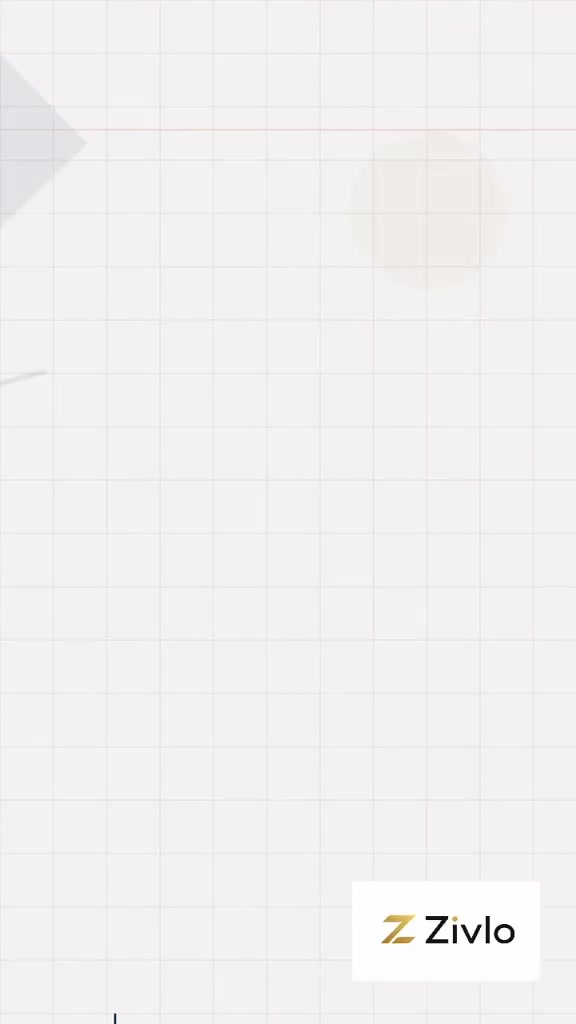
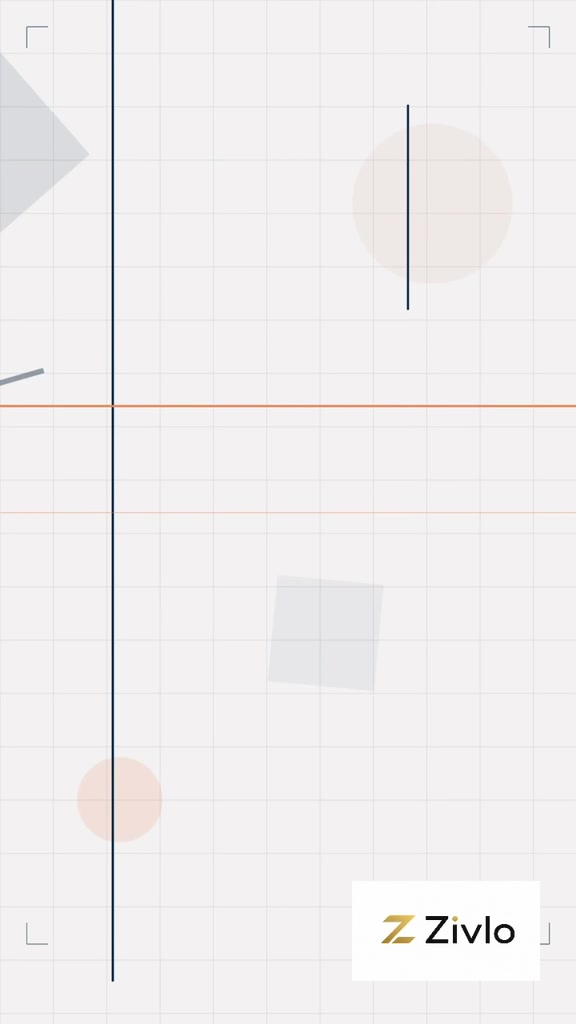
new last fixes

Changed region(s): [[0.0, 0.0, 1.0, 0.9688], [0.6875, 0.0938, 0.7188, 0.3125]]

diff --git a/app/(pages)/results/page.tsx b/app/(pages)/results/page.tsx
@@ -70,6 +70,70 @@ async function copyToClipboard(text: string): Promise<boolean> {
   return ok;
 }
 
+const LOADING_STEPS = [
+  "Searching Companies House…",
+  "Finding matching businesses…",
+  "Writing your personalised pitches…",
+];
+
+function SearchLoadingScreen() {
+  const [step, setStep] = useState(0);
+
+  useEffect(() => {
+    const t1 = setTimeout(() => setStep(1), 3500);
+    const t2 = setTimeout(() => setStep(2), 8000);
+    return () => {
+      clearTimeout(t1);
+      clearTimeout(t2);
+    };
+  }, []);
+
+  return (
+    <div className="mx-auto flex min-h-screen max-w-[430px] flex-col items-center justify-center bg-cream px-6">
+      <div
+        className="h-11 w-11 animate-spin rounded-full border-[3px] border-gold/25 border-t-gold"
+        role="status"
+        aria-label="Loading search results"
+      />
+
+      <p className="mt-6 text-sm font-medium text-navy">Working on your search</p>
+
+      <ul className="mt-5 w-full max-w-[280px] space-y-3">
+        {LOADING_STEPS.map((label, index) => {
+          const isDone = index < step;
+          const isActive = index === step;
+          return (
+            <li
+              key={label}
+              className={`flex items-start gap-2.5 text-sm transition-colors duration-500 ${
+                isDone
+                  ? "font-light text-[#999]"
+                  : isActive
+                    ? "font-medium text-navy"
+                    : "font-light text-[#ccc]"
+              }`}
+            >
+              <span
+                className={`mt-0.5 flex h-4 w-4 shrink-0 items-center justify-center rounded-full text-[10px] ${
+                  isDone
+                    ? "bg-gold/20 text-gold"
+                    : isActive
+                      ? "animate-pulse bg-gold text-navy"
+                      : "bg-gray-100 text-[#ccc]"
+                }`}
+                aria-hidden
+              >
+                {isDone ? "✓" : index + 1}
+              </span>
+              <span className={isActive ? "animate-pulse" : undefined}>{label}</span>
+            </li>
+          );
+        })}
+      </ul>
+    </div>
+  );
+}
+
 function ResultsContent() {
   const router = useRouter();
   const searchParams = useSearchParams();
@@ -214,12 +278,11 @@ function ResultsContent() {
       }
     }
 
-    const timer = setTimeout(loadResults, freeMode ? 800 : 0);
+    loadResults();
     return () => {
       cancelled = true;
-      clearTimeout(timer);
     };
-  }, [businessType, location, freeMode, searchId, subscribed]);
+  }, [businessType, location, freeMode, searchId, subscribed, router]);
 
   const handleCopyPitch = async (lead: NormalizedLead) => {
     if (freeMode) return;
@@ -239,17 +302,7 @@ function ResultsContent() {
   const displayType = query.type || businessType || "Leads";
 
   if (loading) {
-    return (
-      <div className="mx-auto flex min-h-screen max-w-[430px] flex-col items-center justify-center bg-cream px-6">
-        <div className="h-8 w-8 animate-spin rounded-full border-2 border-gold border-t-transparent" />
-        <p className="mt-4 text-sm font-light text-[#666]">
-          Finding leads in {displayLocation}…
-        </p>
-        <p className="mt-1 text-xs font-light text-[#999]">
-          Cross-referencing Companies House
-        </p>
-      </div>
-    );
+    return <SearchLoadingScreen />;
   }
 
   if (error) {
@@ -442,11 +495,7 @@ function ResultsContent() {
 export default function ResultsPage() {
   return (
     <Suspense
-      fallback={
-        <div className="mx-auto flex min-h-screen max-w-[430px] items-center justify-center bg-cream">
-          <div className="h-8 w-8 animate-spin rounded-full border-2 border-gold border-t-transparent" />
-        </div>
-      }
+      fallback={<SearchLoadingScreen />}
     >
       <ResultsContent />
     </Suspense>

diff --git a/app/page.tsx b/app/page.tsx
@@ -58,7 +58,7 @@ const FAQ_ITEMS = [
   },
 ];
 
-const FOUNDER_VIDEO_POSTER = "/images/founder-video-poster.jpg";
+const FOUNDER_VIDEO_POSTER = "/images/professional-office.jpg";
 
 function FounderVideo() {
   const videoRef = useRef<HTMLVideoElement>(null);